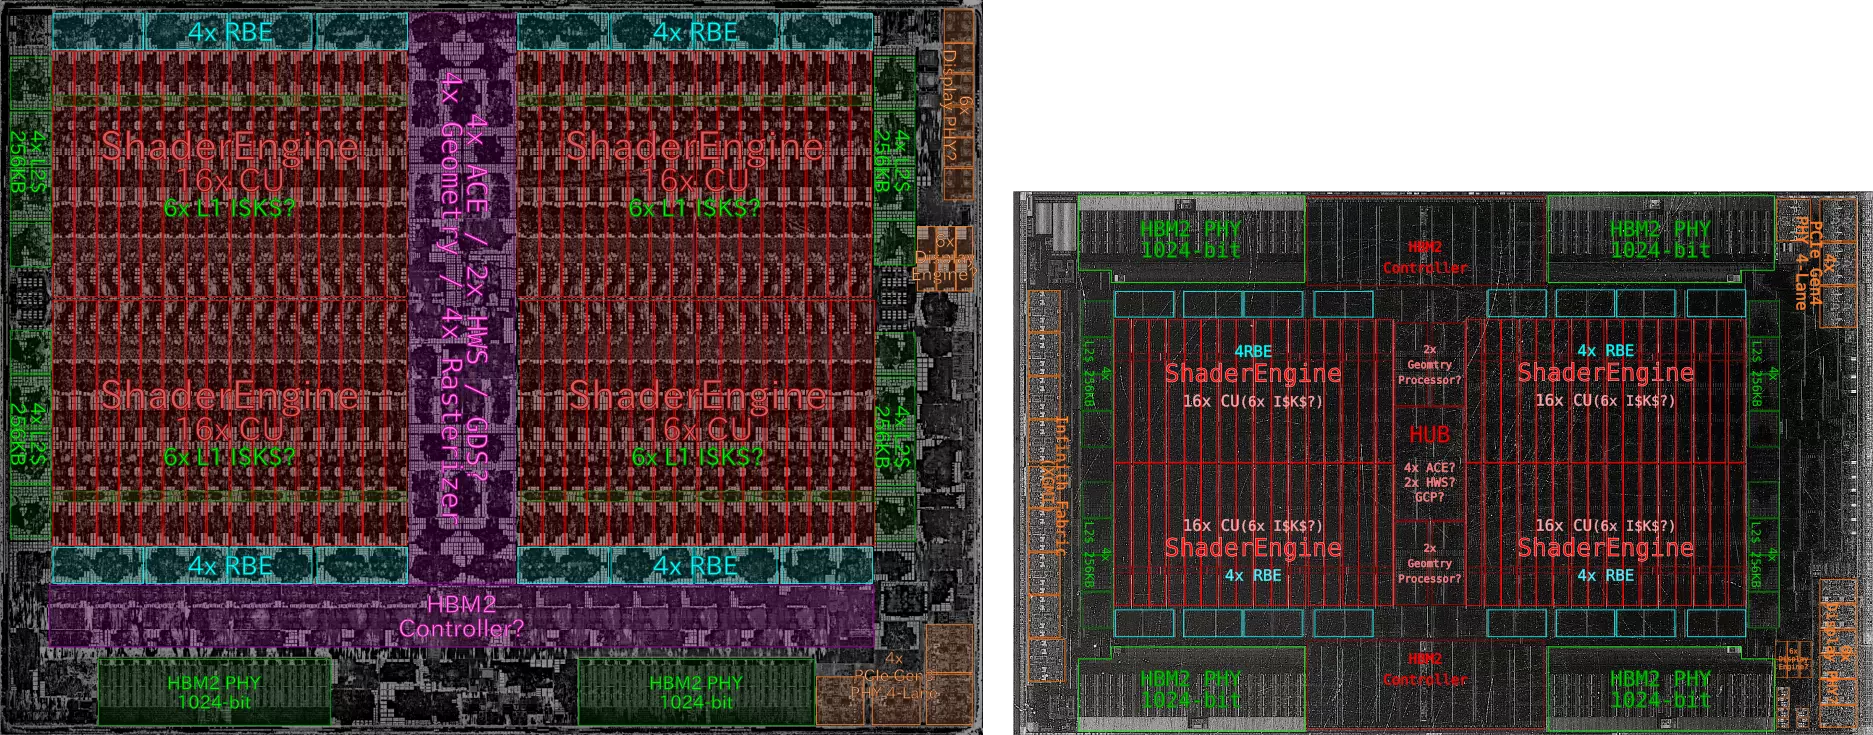
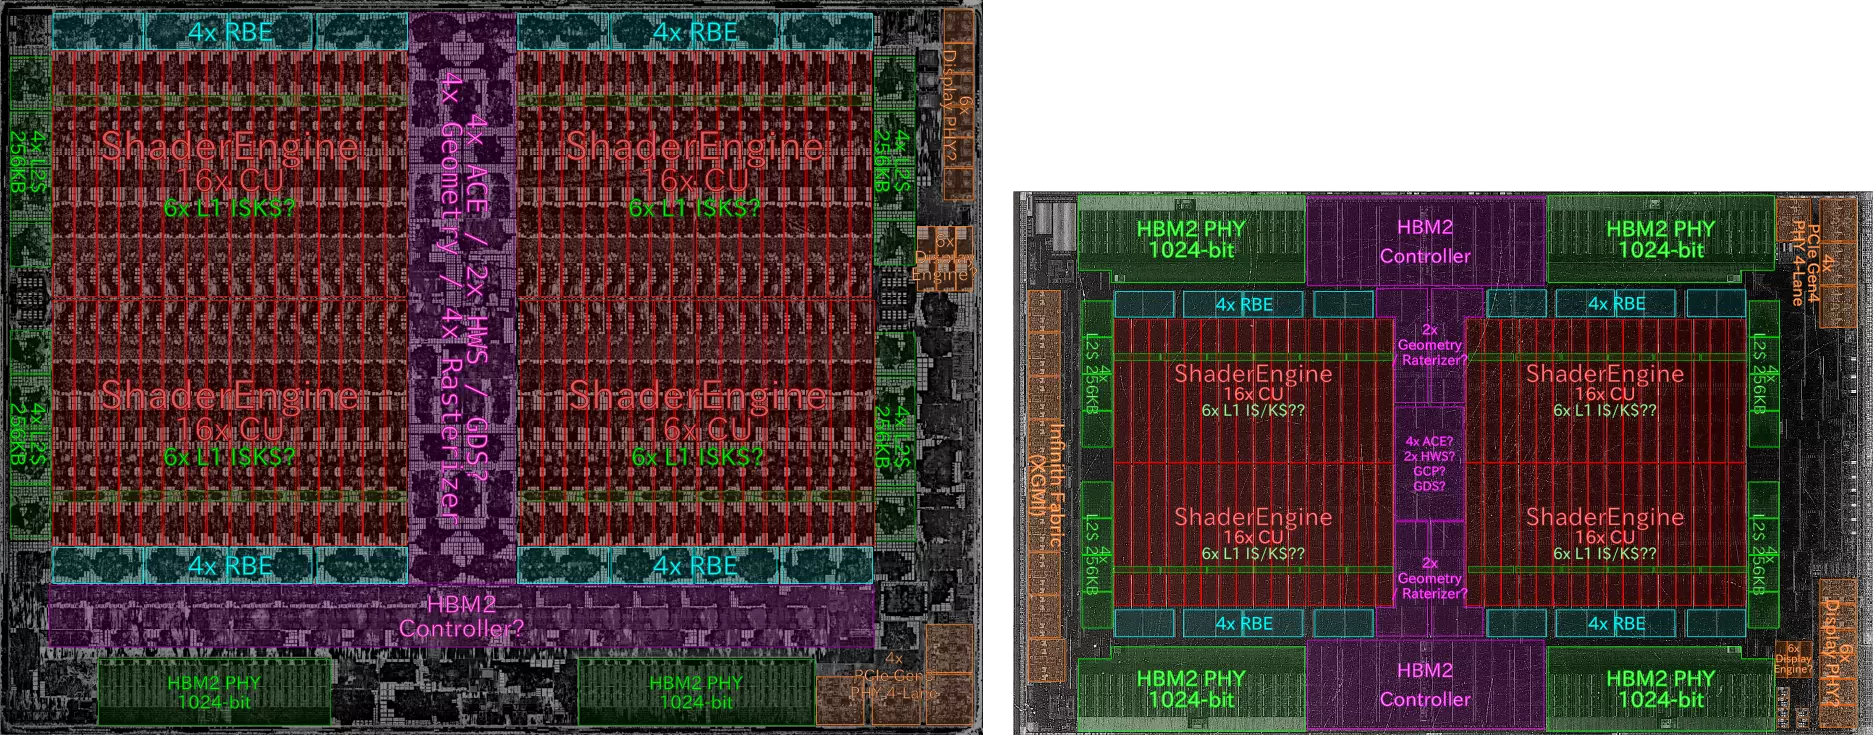
2020-04-06-15:34.

Changed region(s): [[0.5264, 0.2694, 0.9909, 1.0]]

diff --git a/content/posts/2020/03/24/vega10-vega20-dieshot-guess.md b/content/posts/2020/03/24/vega10-vega20-dieshot-guess.md
@@ -67,9 +67,11 @@ AMD GCNアーキテクチャでは、最大4CUで I$(Instruction Cache) 32KB と
 設計の最適化に掛けた時間にも結構な違いがあったりするのだろうか？  
 
 ## Vega10とVega20の比較
-{{< figure src="/image/2020/03/24/compare-vega10-vega20.webp" title="L: Vega10 / R: Vega20" caption="Process: GF 14nm / TSMC 7nm (N7)<br>DieSize: 509.73mm<sup>2</sup> / 330.93mm<sup>2</sup>" >}}
+{{< figure src="/image/2020/03/24/compare-vega10-vega20.webp" title="L: Vega10 / R: Vega20" caption="Process: GF 14nm / TSMC 7nm (N7)<br>DieSize: 509.73mm<sup>2</sup> / 330.93mm<sup>2</sup><br>CU Size(推定): 25.08mm<sup>2</sup> / 12.45mm<sup>2</sup> " >}}
 
 *Vega20* のShaderEngineのサイズが *Vega10* のほぼ半分になっているところに、TSMC 7nm(N7)移行の効果が見て取れる。  
+CUのサイズもほぼ半分となっていた。  
+それに対し、画像を見てもわかりやすいが、*HBM2 PHY*、*PCIeGen4 4-Lane PHY* 等、I/Oの物理層となる部はほとんどサイズが変わっていない。  
 
 ## 余談
 *GCN/GFX9* 系であり、8-ShaderEngine構成、AGPR増設、8-SDMAといった変更点がコードの記述から確認されている [Arcturus](/tags/arcturus) ではどうなるかは気になる所だが、高コスト&一般向けではないことから、公式以外からのダイショット公開は期待できそうにない。  
